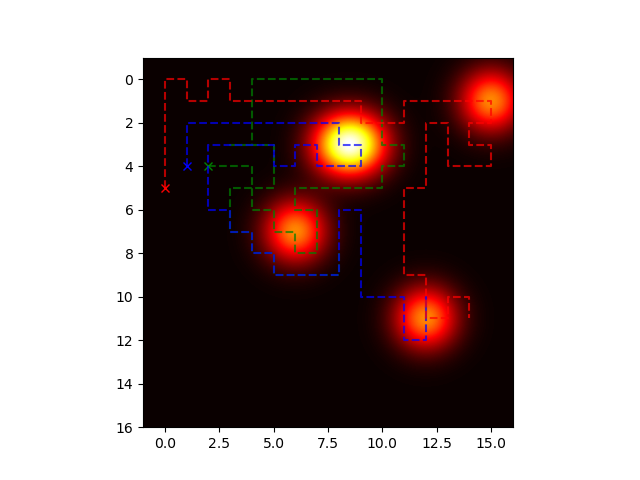
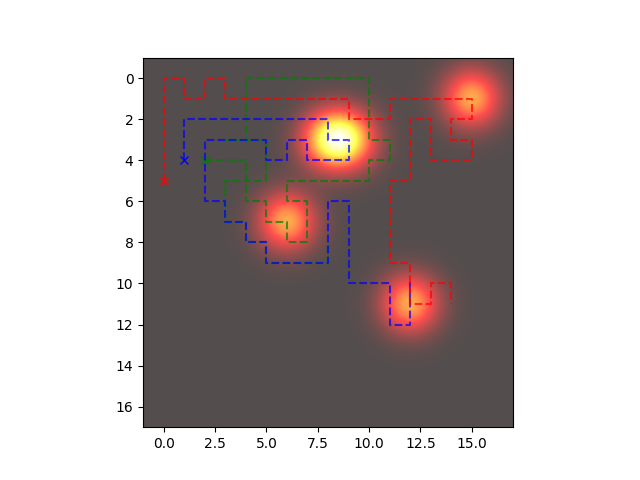
added fixes for anaylsis script with the maze overlay

diff --git a/test/analyze_mapf_suite_results.py b/test/analyze_mapf_suite_results.py
@@ -6,6 +6,7 @@ import numpy as np
 from numpy.typing import NDArray
 from argparse import ArgumentParser
 from matplotlib import pyplot as plt
+from scipy.interpolate import interp2d
 from typing import List, Tuple, Any, Union
 from scipy.stats import multivariate_normal
 from matplotlib.animation import FuncAnimation
@@ -28,11 +29,26 @@ def visualize_path(
 ):
     fig, ax = plt.subplots()
     if map_viz is not None:
-        ax.imshow(
-            zz,
-            extent=(-1, reward_map.num_of_rows, reward_map.num_of_cols, -1),
-            cmap="hot",
-        )
+        if len(map_viz) == 1:
+            ax.imshow(
+                map_viz[0],
+                extent=(-1, reward_map.num_of_rows + 1, reward_map.num_of_cols + 1, -1),
+                cmap="hot",
+            )
+        else:
+            ax.imshow(
+                map_viz[0],
+                extent=(-1, reward_map.num_of_rows + 1, reward_map.num_of_cols + 1, -1),
+                cmap="hot",
+                alpha=0.7,
+            )
+            ax.imshow(
+                map_viz[1],
+                extent=(-1, reward_map.num_of_rows + 1, reward_map.num_of_cols + 1, -1),
+                cmap="binary",
+                alpha=0.5,
+            )
+
     else:
         ax.imshow(reward_map.reward_map, cmap="hot")
 
@@ -342,8 +358,8 @@ if __name__ == "__main__":
         parameters=params,
     )
 
-    x = np.linspace(-1, reward_map.num_of_rows, 1000)
-    y = np.linspace(-1, reward_map.num_of_cols, 1000)
+    x = np.linspace(-1, reward_map.num_of_rows + 1, 1000)
+    y = np.linspace(-1, reward_map.num_of_cols + 1, 1000)
     xx, yy = np.meshgrid(x, y)
     meshgrid = np.dstack((xx, yy))
     zz = np.zeros_like(xx)
@@ -377,8 +393,24 @@ if __name__ == "__main__":
         )
         vulcan_agents_paths.append(multi_agent_vulcan_path)
 
+    if maze is not None:
+        x_obstacle = np.linspace(-1, reward_map.num_of_rows + 1, maze.shape[0])
+        y_obstacle = np.linspace(-1, reward_map.num_of_rows + 1, maze.shape[1])
+
+        obstacles_interpolated = interp2d(x_obstacle, y_obstacle, maze, kind="linear")
+        zz_obstacle = obstacles_interpolated(x, y)
+
+        plt.imshow(
+            zz_obstacle,
+            extent=(-1, reward_map.num_of_rows + 1, reward_map.num_of_cols + 1, -1),
+            cmap="binary",
+            alpha=0.5,
+        )
     plt.imshow(
-        zz, extent=(-1, reward_map.num_of_rows, reward_map.num_of_cols, -1), cmap="hot"
+        zz,
+        extent=(-1, reward_map.num_of_rows + 1, reward_map.num_of_cols + 1, -1),
+        cmap="hot",
+        alpha=0.7,
     )
 
     filename = figures_base_path + "ma-vulcan-" + args.results_pkl[:-4]
@@ -388,7 +420,7 @@ if __name__ == "__main__":
         vulcan_agents_paths,
         reward_map,
         filename + ".gif",
-        [xx, yy, zz],
+        [zz, zz_obstacle] if maze is not None else [zz],
         save_fig=True,
     )
 
@@ -411,8 +443,18 @@ if __name__ == "__main__":
         )
         vulcan_agents_paths.append(single_agent_vulcan_path)
 
+    if maze is not None:
+        plt.imshow(
+            zz_obstacle,
+            extent=(-1, reward_map.num_of_rows + 1, reward_map.num_of_cols + 1, -1),
+            cmap="binary",
+            alpha=0.5,
+        )
     plt.imshow(
-        zz, extent=(-1, reward_map.num_of_rows, reward_map.num_of_cols, -1), cmap="hot"
+        zz,
+        extent=(-1, reward_map.num_of_rows + 1, reward_map.num_of_cols + 1, -1),
+        cmap="hot",
+        alpha=0.7,
     )
 
     filename = figures_base_path + "sa-vulcan-" + args.results_pkl[:-4]
@@ -422,6 +464,6 @@ if __name__ == "__main__":
         vulcan_agents_paths,
         reward_map,
         filename + ".gif",
-        [xx, yy, zz],
+        [zz, zz_obstacle] if maze is not None else [zz],
         save_fig=True,
     )

diff --git a/test/test_rh_ma_vulcan.py b/test/test_rh_ma_vulcan.py
@@ -30,8 +30,8 @@ def visualize_path(
     fig, ax = plt.subplots()
     if map_viz is not None:
         ax.imshow(
-            zz,
-            extent=(-1, reward_map.num_of_rows, reward_map.num_of_cols, -1),
+            map_viz[0],
+            extent=(-1, reward_map.num_of_rows + 1, reward_map.num_of_cols + 1, -1),
             cmap="hot",
         )
     else:
@@ -163,13 +163,13 @@ if __name__ == "__main__":
 
     if "small" in args.type:
         mission_duration = 10
-        communication_range = 2
+        communication_range = 3
     else:
         mission_duration = 35
         communication_range = 5
 
-    x = np.linspace(-1, reward_map.num_of_rows, 1000)
-    y = np.linspace(-1, reward_map.num_of_cols, 1000)
+    x = np.linspace(-1, reward_map.num_of_rows + 1, 1000)
+    y = np.linspace(-1, reward_map.num_of_cols + 1, 1000)
     xx, yy = np.meshgrid(x, y)
     meshgrid = np.dstack((xx, yy))
     zz = np.zeros_like(xx)
@@ -225,7 +225,9 @@ if __name__ == "__main__":
         vulcan_agents_paths.append(vulcan_path)
 
     plt.imshow(
-        zz, extent=(-1, reward_map.num_of_rows, reward_map.num_of_cols, -1), cmap="hot"
+        zz,
+        extent=(-1, reward_map.num_of_rows + 1, reward_map.num_of_cols + 1, -1),
+        cmap="hot",
     )
     if args.save_figures:
         plt.savefig(figures_base_path + "rh-ma-vulcan-" + args.type + ".png")
@@ -234,7 +236,7 @@ if __name__ == "__main__":
         vulcan_agents_paths,
         reward_map,
         figures_base_path + "rh-ma-vulcan-" + args.type + ".gif",
-        [xx, yy, zz],
+        [zz],
         save_fig=args.save_figures,
     )
 
@@ -271,7 +273,9 @@ if __name__ == "__main__":
         vulcan_agents_paths.append(vulcan_path)
 
     plt.imshow(
-        zz, extent=(-1, reward_map.num_of_rows, reward_map.num_of_cols, -1), cmap="hot"
+        zz,
+        extent=(-1, reward_map.num_of_rows + 1, reward_map.num_of_cols + 1, -1),
+        cmap="hot",
     )
     if args.save_figures:
         plt.savefig(figures_base_path + "sa-vulcan-" + args.type + ".png")
@@ -280,6 +284,6 @@ if __name__ == "__main__":
         vulcan_agents_paths,
         reward_map,
         figures_base_path + "sa-vulcan-" + args.type + ".gif",
-        [xx, yy, zz],
+        [zz],
         save_fig=args.save_figures,
     )
